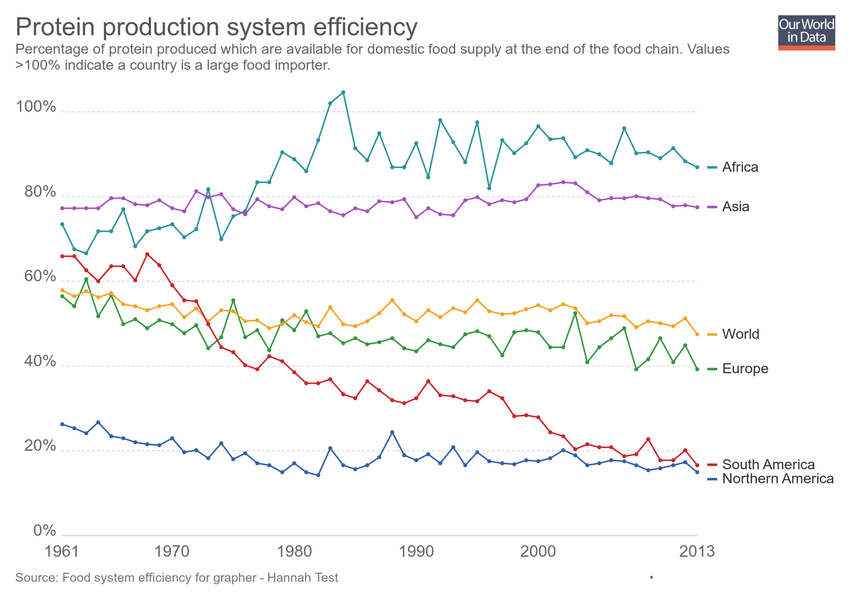
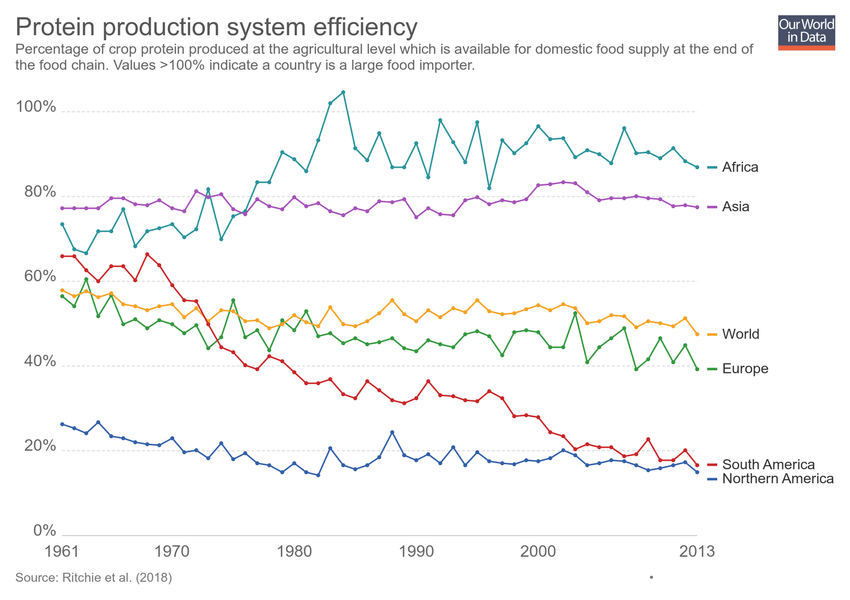
Updating chart protein-production-system-efficiency

Changed region(s): [[0.0, 0.06, 0.8871, 0.12], [0.0918, 0.93, 0.3976, 0.99]]

diff --git a/grapher/protein-production-system-efficiency.html b/grapher/protein-production-system-efficiency.html
@@ -1,4 +1,4 @@
-<!doctype html><html><head><meta name="viewport" content="width=device-width, initial-scale=1" /><title>Protein production system efficiency - Our World in Data</title><meta name="description" content="Percentage of protein produced which are available for domestic food supply at the end of the food chain. Values &gt;100% indicate a country is a large food importer." /><link rel="canonical" href="https://ourworldindata.org/grapher/protein-production-system-efficiency" /><meta property="fb:app_id" content="1149943818390250" /><meta property="og:url" content="https://ourworldindata.org/grapher/protein-production-system-efficiency" /><meta property="og:title" content="Protein production system efficiency" /><meta property="og:description" content="Percentage of protein produced which are available for domestic food supply at the end of the food chain. Values &gt;100% indicate a country is a large food importer." /><meta property="og:image" content="https://ourworldindata.org/grapher/exports/protein-production-system-efficiency.png?v=1" /><meta property="og:image:width" content="850" /><meta property="og:image:height" content="600" /><meta property="og:site_name" content="Our World in Data" /><meta name="twitter:card" content="summary_large_image" /><meta name="twitter:site" content="@OurWorldInData" /><meta name="twitter:creator" content="@OurWorldInData" /><meta name="twitter:title" content="Protein production system efficiency" /><meta name="twitter:description" content="Percentage of protein produced which are available for domestic food supply at the end of the food chain. Values &gt;100% indicate a country is a large food importer." /><meta name="twitter:image" content="https://ourworldindata.org/grapher/exports/protein-production-system-efficiency.png?v=1" /><style>
+<!doctype html><html><head><meta name="viewport" content="width=device-width, initial-scale=1" /><title>Protein production system efficiency - Our World in Data</title><meta name="description" content="Percentage of crop protein produced at the agricultural level which is available for domestic food supply at the end of the food chain. Values &gt;100% indicate a country is a large food importer." /><link rel="canonical" href="https://ourworldindata.org/grapher/protein-production-system-efficiency" /><meta property="fb:app_id" content="1149943818390250" /><meta property="og:url" content="https://ourworldindata.org/grapher/protein-production-system-efficiency" /><meta property="og:title" content="Protein production system efficiency" /><meta property="og:description" content="Percentage of crop protein produced at the agricultural level which is available for domestic food supply at the end of the food chain. Values &gt;100% indicate a country is a large food importer." /><meta property="og:image" content="https://ourworldindata.org/grapher/exports/protein-production-system-efficiency.png?v=3" /><meta property="og:image:width" content="850" /><meta property="og:image:height" content="600" /><meta property="og:site_name" content="Our World in Data" /><meta name="twitter:card" content="summary_large_image" /><meta name="twitter:site" content="@OurWorldInData" /><meta name="twitter:creator" content="@OurWorldInData" /><meta name="twitter:title" content="Protein production system efficiency" /><meta name="twitter:description" content="Percentage of crop protein produced at the agricultural level which is available for domestic food supply at the end of the food chain. Values &gt;100% indicate a country is a large food importer." /><meta name="twitter:image" content="https://ourworldindata.org/grapher/exports/protein-production-system-efficiency.png?v=3" /><style>
         html, body {
             height: 100%;
             margin: 0;
@@ -20,8 +20,8 @@
         }
     </style><noscript><style>
                     figure { display: none !important; }
-                </style></noscript><link rel="stylesheet" href="https://ourworldindata.org/grapher/assets/commons.bundle.019a92548339820130b6.css" /><link rel="preload" href="/grapher/data/variables/42577.json?v=1" as="fetch" crossorigin /></head><body class="singleChart"><figure data-grapher-src="/grapher/protein-production-system-efficiency"></figure><noscript id="fallback"><img src="/grapher/exports/protein-production-system-efficiency.svg" /><p>Interactive visualization requires JavaScript</p></noscript><script src="https://cdn.polyfill.io/v2/polyfill.min.js?features=es6,fetch"></script><script src="https://ourworldindata.org/grapher/assets/commons.bundle.019a92548339820130b6.js"></script><script src="https://ourworldindata.org/grapher/assets/charts.bundle.dcf65b68eddaba4c6a58.js"></script><script>
-        var jsonConfig = {"id":1430,"map":{"projection":"World","targetYear":2013,"variableId":42577,"legendStepSize":20,"baseColorScheme":"YlGn","isManualBuckets":true,"colorSchemeLabels":[],"colorSchemeValues":[5,10,20,30,40,50,60,80,100,200],"defaultProjection":"World","colorSchemeMinValue":0,"customNumericColors":[],"customCategoryColors":{},"customCategoryLabels":{},"customHiddenCategories":{}},"tab":"chart","slug":"protein-production-system-efficiency","type":"LineChart","title":"Protein production system efficiency","xAxis":{"scaleType":"linear"},"yAxis":{"min":0,"scaleType":"linear"},"version":1,"subtitle":"Percentage of protein produced which are available for domestic food supply at the end of the food chain. Values >100% indicate a country is a large food importer.","hasMapTab":true,"originUrl":"","stackMode":"absolute","dimensions":[{"id":9168,"order":0,"chartId":1430,"display":{"shortUnit":"%"},"property":"y","targetYear":null,"variableId":42577}],"isAutoSlug":true,"hasChartTab":true,"isPublished":true,"selectedData":[{"index":0,"entityId":273},{"index":0,"entityId":275},{"index":0,"entityId":276},{"index":0,"entityId":355},{"index":0,"entityId":450},{"index":0,"entityId":295}],"internalNotes":"TEST FOR HANNAH - Please don't share","addCountryMode":"add-country"};
+                </style></noscript><link rel="stylesheet" href="https://ourworldindata.org/grapher/assets/commons.bundle.019a92548339820130b6.css" /><link rel="preload" href="/grapher/data/variables/42577.json?v=3" as="fetch" crossorigin /></head><body class="singleChart"><figure data-grapher-src="/grapher/protein-production-system-efficiency"></figure><noscript id="fallback"><img src="/grapher/exports/protein-production-system-efficiency.svg" /><p>Interactive visualization requires JavaScript</p></noscript><script src="https://cdn.polyfill.io/v2/polyfill.min.js?features=es6,fetch"></script><script src="https://ourworldindata.org/grapher/assets/commons.bundle.019a92548339820130b6.js"></script><script src="https://ourworldindata.org/grapher/assets/charts.bundle.dcf65b68eddaba4c6a58.js"></script><script>
+        var jsonConfig = {"id":1430,"map":{"projection":"World","targetYear":2013,"variableId":42577,"baseColorScheme":"YlGn","isManualBuckets":true,"colorSchemeLabels":[],"colorSchemeValues":[5,10,20,30,40,50,60,80,100,200],"colorSchemeMinValue":0,"customNumericColors":[],"customCategoryColors":{},"customCategoryLabels":{},"customHiddenCategories":{}},"tab":"chart","slug":"protein-production-system-efficiency","type":"LineChart","title":"Protein production system efficiency","xAxis":{"scaleType":"linear"},"yAxis":{"min":0,"scaleType":"linear"},"version":3,"subtitle":"Percentage of crop protein produced at the agricultural level which is available for domestic food supply at the end of the food chain. Values >100% indicate a country is a large food importer.","hasMapTab":true,"originUrl":"","stackMode":"absolute","dimensions":[{"display":{"shortUnit":"%"},"property":"y","variableId":42577}],"sourceDesc":"Ritchie et al. (2018)","hasChartTab":true,"isPublished":true,"selectedData":[{"index":0,"entityId":273},{"index":0,"entityId":275},{"index":0,"entityId":276},{"index":0,"entityId":355},{"index":0,"entityId":450},{"index":0,"entityId":295}],"internalNotes":"TEST FOR HANNAH - Please don't share","addCountryMode":"add-country"};
         var figure = document.getElementsByTagName("figure")[0];
         try {
             window.App = {};
